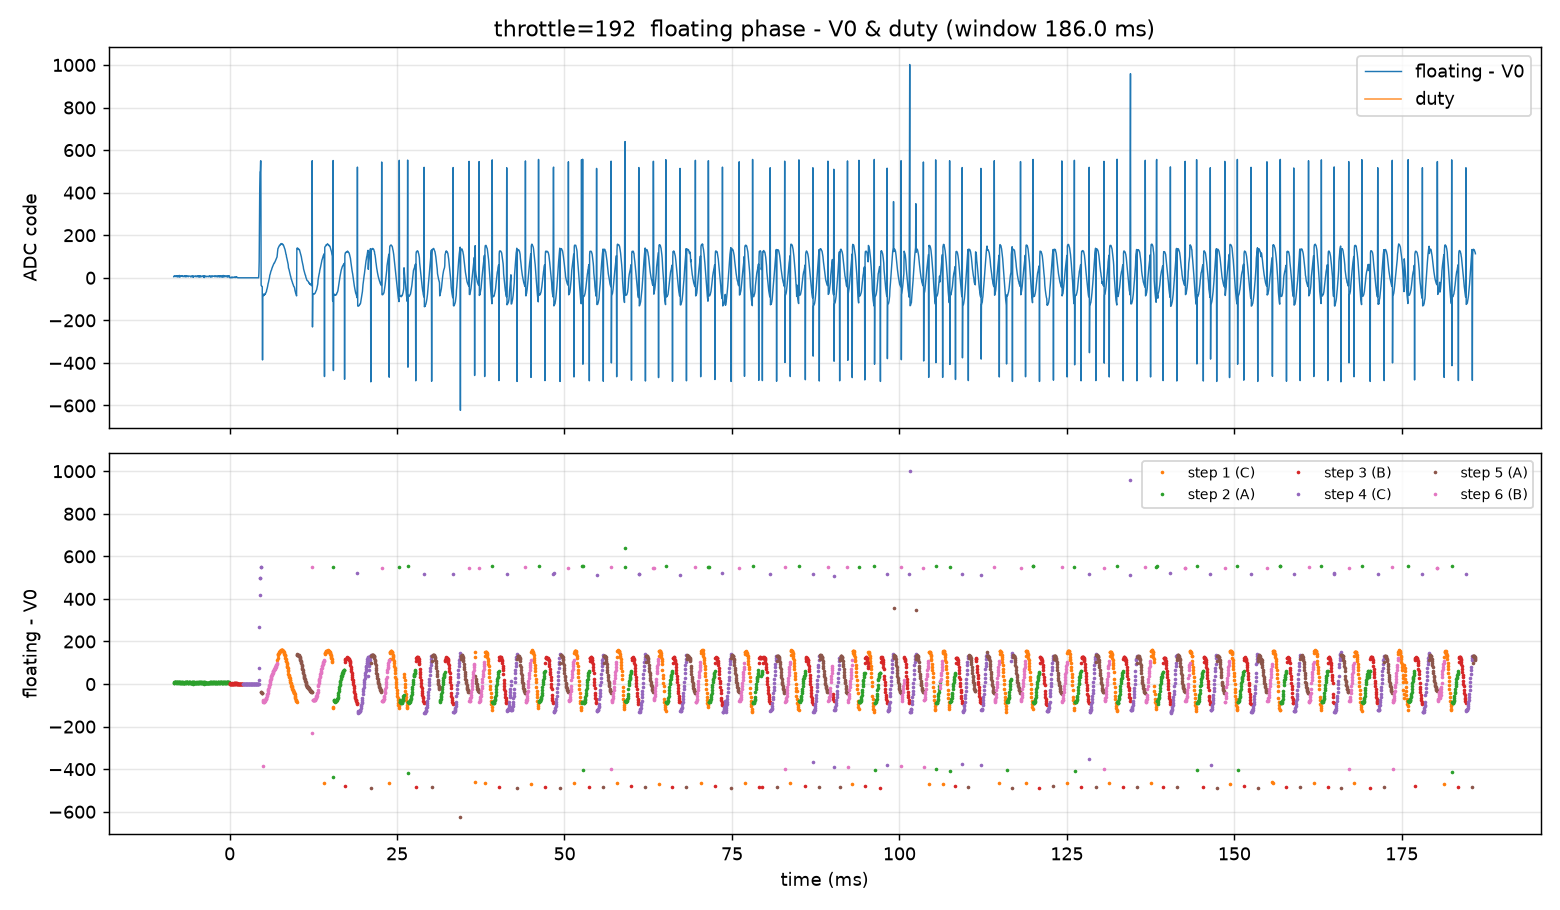
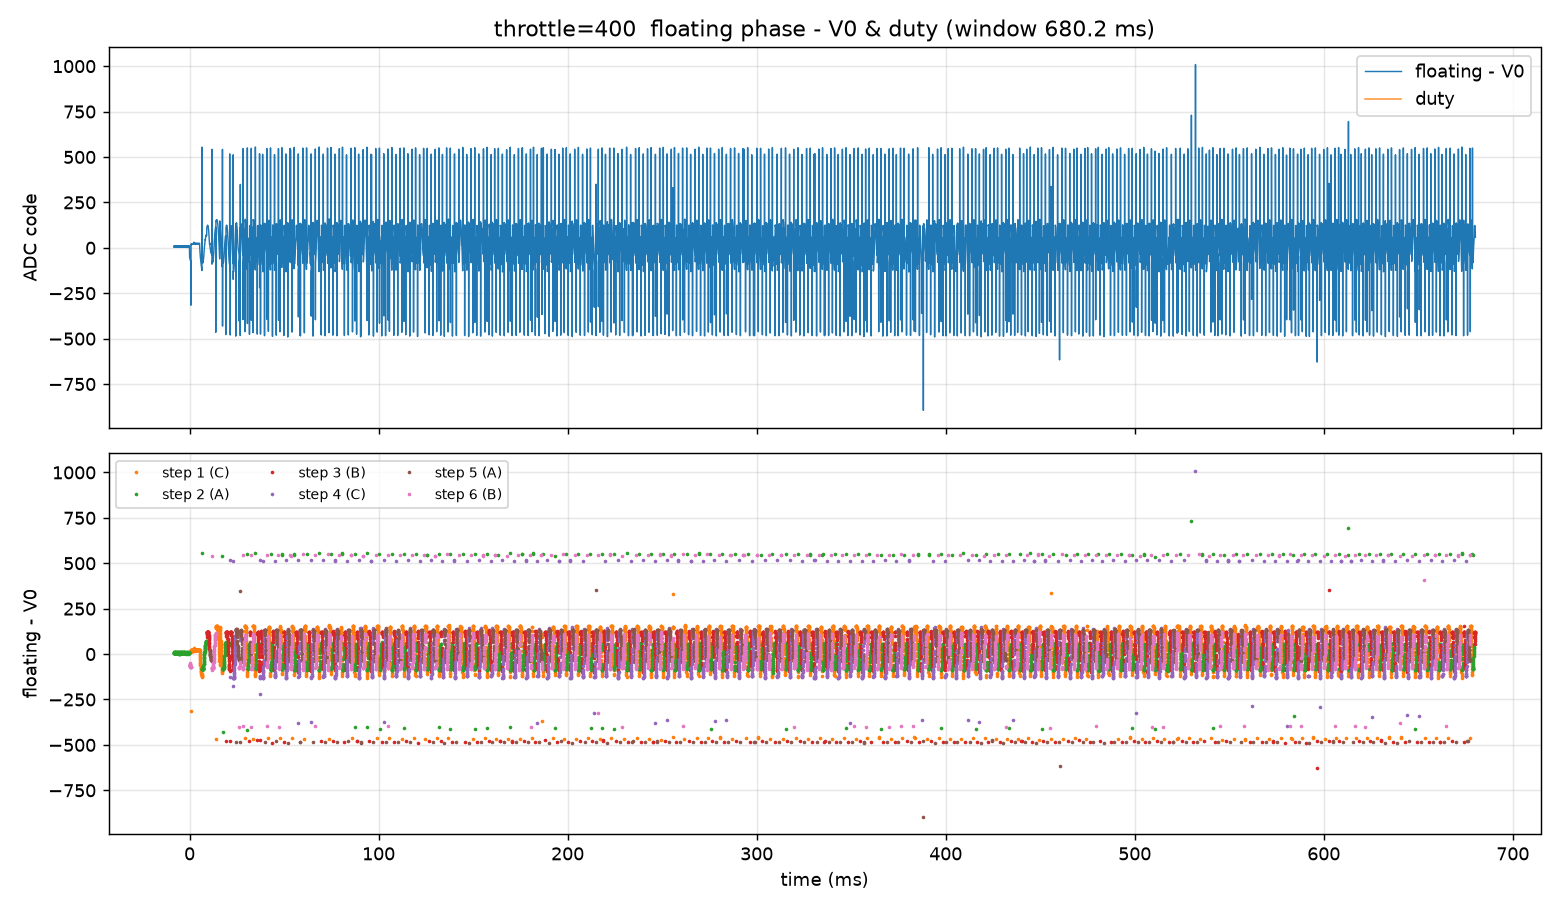
窗口包4帧轮发：电流/duty本值/zero_crosses/e_rpm，解析器同步（可判断 zero_x<30 夹子）

diff --git a/tools/win-proto2.py b/tools/win-proto2.py
@@ -176,20 +176,22 @@ def frames_to_arrays(pkt):
     va = vb = vc = v0 = cur = step = dbg = None
     if np is None or not pkt:
         return None
-    va, vb, vc, v0, cur, duty, step, dbg = [], [], [], [], [], [], [], []
+    va, vb, vc, v0, cur, duty, zc, erpm, step, dbg = [], [], [], [], [], [], [], [], [], []
     for p in pkt:
         a = np.frombuffer(p['pay'], dtype=np.uint8).reshape(-1, FRAME)
         def i16(c):
             return (a[:, c].astype(np.int16) | (a[:, c + 1].astype(np.int16) << 8))
         va.append(i16(0)); vb.append(i16(2)); vc.append(i16(4)); v0.append(i16(6))
         raw_cu = (a[:, 8].astype(int) | (a[:, 9].astype(int) << 8))
-        is_duty = ((a[:, 10] >> 3) & 1).astype(int)
-        cur.append(np.where(is_duty == 0, raw_cu, 0))
-        duty.append(np.where(is_duty == 1, raw_cu, 0))
+        kind = ((a[:, 10] >> 3) & 3).astype(int)
+        cur.append(np.where(kind == 0, raw_cu, 0))
+        duty.append(np.where(kind == 1, raw_cu, 0))
+        zc.append(np.where(kind == 2, raw_cu, 0))
+        erpm.append(np.where(kind == 3, raw_cu, 0))
         step.append(a[:, 10]); dbg.append(a[:, 11])
     cat = lambda L: np.concatenate(L)
     return dict(va=cat(va), vb=cat(vb), vc=cat(vc), v0=cat(v0),
-                cur=cat(cur), duty=cat(duty), step=cat(step), dbg=cat(dbg),
+                cur=cat(cur), duty=cat(duty), zc=cat(zc), erpm=cat(erpm), step=cat(step), dbg=cat(dbg),
                 win_seq=np.array([p['seq'] for p in pkt], dtype=np.uint16),
                 win_ts=np.array([p['ts'] for p in pkt], dtype=np.uint32))
 

diff --git a/Src/main.c b/Src/main.c
@@ -2502,10 +2502,15 @@ void win_push(int16_t va, int16_t vb, int16_t vc, int16_t v0, int16_t cu, uint8_
         q[ 6]=(uint8_t)( v0 & 0xFF); q[ 7]=(uint8_t)((v0>>8)&0xFF);
         /* ★ 奇偶帧交替：偶数帧 q[8..9]=电流，奇数帧 q[8..9]=占空比(duty 本值)；step bit3 标记 */
         {
-            uint16_t cu_or_duty = (uint16_t)(((i & 1u) != 0u) ? duty_cycle : cu);
-            q[ 8]=(uint8_t)( cu_or_duty & 0xFF); q[ 9]=(uint8_t)((cu_or_duty>>8)&0xFF);
+            uint16_t v16;
+            uint8_t  kind = (uint8_t)(i & 3u);
+            if (kind == 0u)      { v16 = (uint16_t)cu; }             /* 电流 */
+            else if (kind == 1u) { v16 = (uint16_t)duty_cycle; }     /* 占空比本值 */
+            else if (kind == 2u) { v16 = (uint16_t)zero_crosses; }   /* 累计过零数 */
+            else                 { v16 = (uint16_t)e_rpm; }          /* 转速 */
+            q[ 8]=(uint8_t)( v16 & 0xFF); q[ 9]=(uint8_t)((v16>>8)&0xFF);
         }
-        q[10]=(uint8_t)((st & 0x07u) | ((i & 1u) << 3) | ((adc_frame_order & 0x03u) << 6));
+        q[10]=(uint8_t)((st & 0x07u) | ((i & 3u) << 3) | ((adc_frame_order & 0x03u) << 6));
         q[11]=(uint8_t)((((input >> 4) & 0x7Fu) << 1) | (old_routine ? 1u : 0u));   /* dbg: bit7..1=油门/16, bit0=old_routine */
     }
     {
